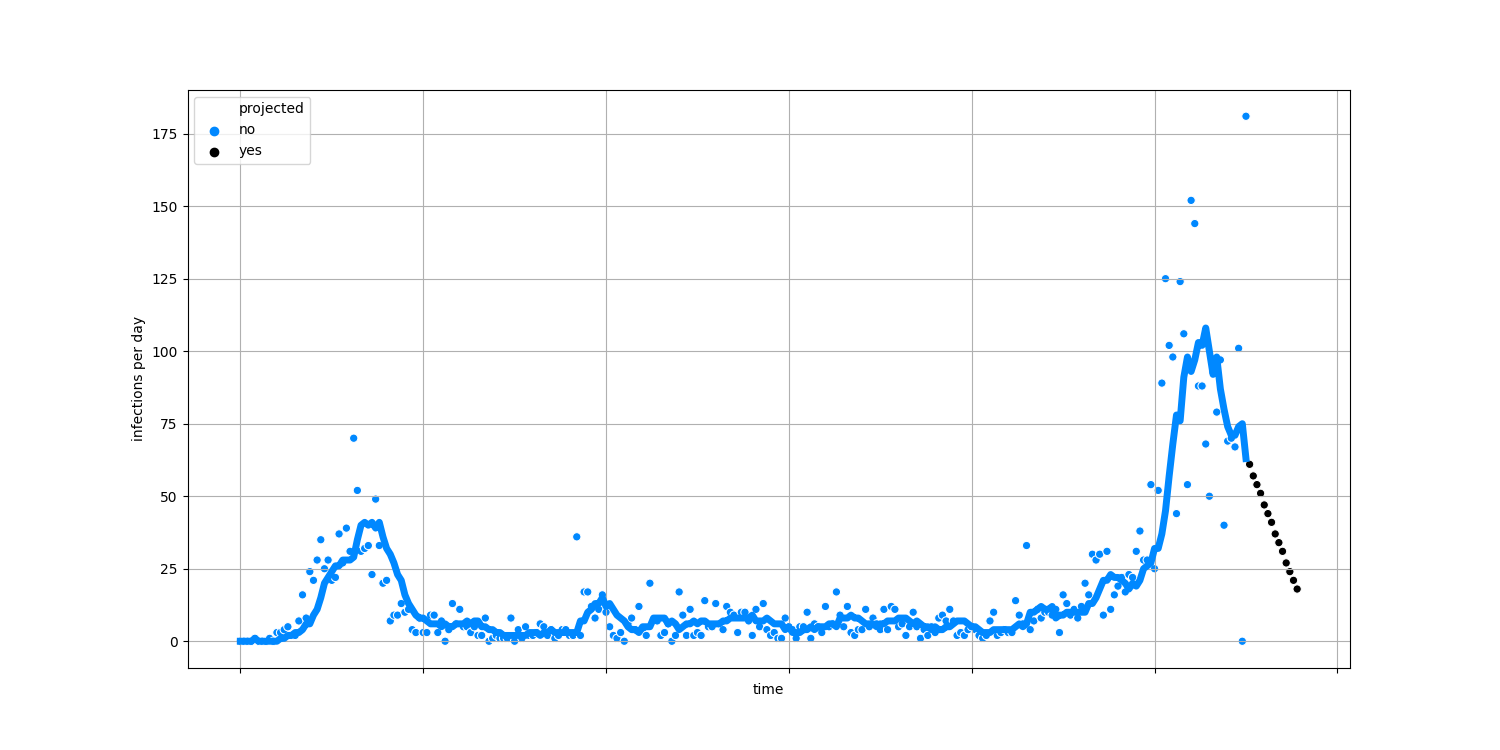
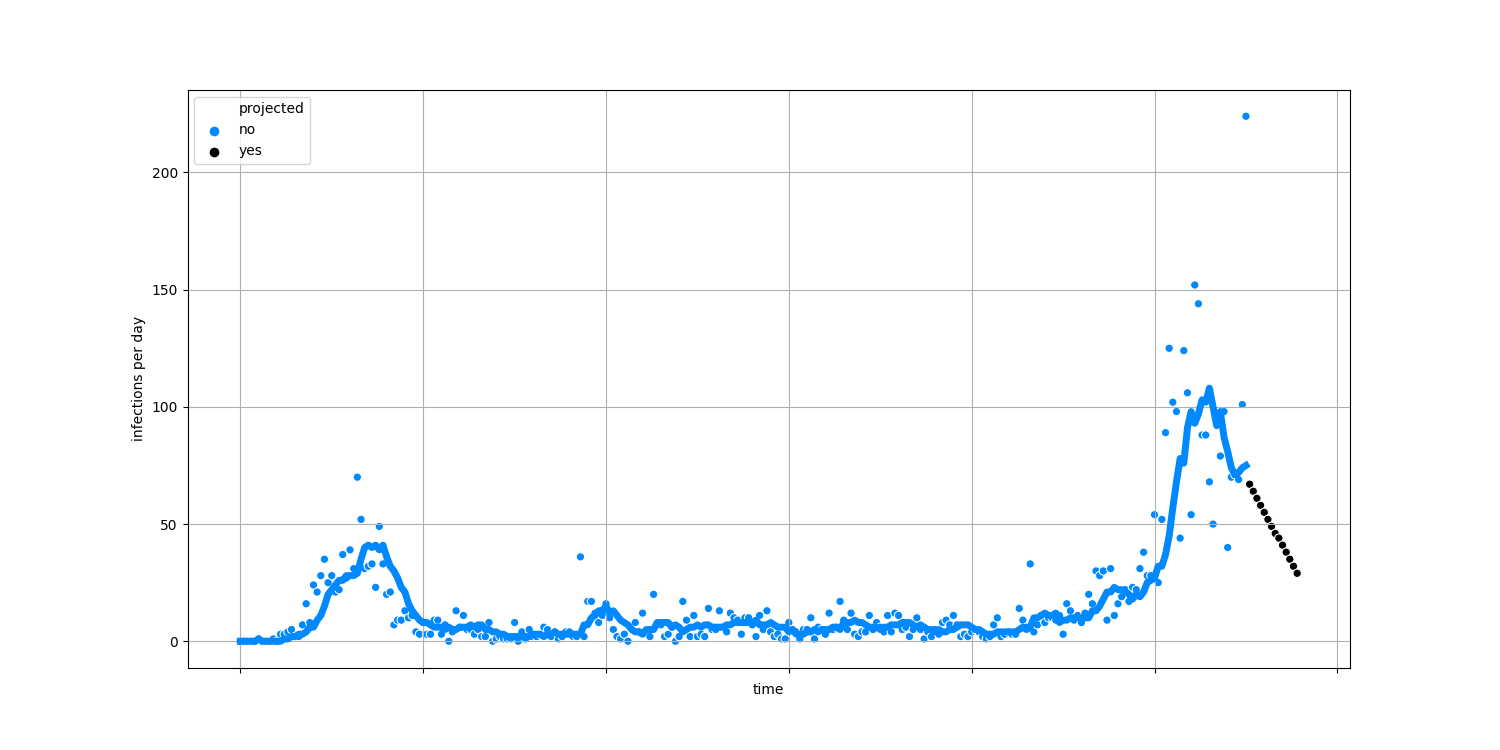
regular update

diff --git a/docs/table.html b/docs/table.html
@@ -100,7 +100,7 @@
     <script type="text/javascript">
       window.addEventListener('DOMContentLoaded', () => {
 
-        const data = [{'state': 'Alabama', 'deaths_per_million_per_day': '5', 'positive_per_million_per_day': '510'}, {'state': 'Alaska', 'deaths_per_million_per_day': '1', 'positive_per_million_per_day': '819'}, {'state': 'American Samoa', 'deaths_per_million_per_day': '0', 'positive_per_million_per_day': '0'}, {'state': 'Arizona', 'deaths_per_million_per_day': '4', 'positive_per_million_per_day': '591'}, {'state': 'Arkansas', 'deaths_per_million_per_day': '5', 'positive_per_million_per_day': '532'}, {'state': 'California', 'deaths_per_million_per_day': '2', 'positive_per_million_per_day': '368'}, {'state': 'Colorado', 'deaths_per_million_per_day': '5', 'positive_per_million_per_day': '758'}, {'state': 'Connecticut', 'deaths_per_million_per_day': '7', 'positive_per_million_per_day': '492'}, {'state': 'Delaware', 'deaths_per_million_per_day': '3', 'positive_per_million_per_day': '543'}, {'state': 'District of Columbia', 'deaths_per_million_per_day': '3', 'positive_per_million_per_day': '268'}, {'state': 'Florida', 'deaths_per_million_per_day': '4', 'positive_per_million_per_day': '365'}, {'state': 'Georgia', 'deaths_per_million_per_day': '4', 'positive_per_million_per_day': '242'}, {'state': 'Guam', 'deaths_per_million_per_day': '0', 'positive_per_million_per_day': '187'}, {'state': 'Hawaii', 'deaths_per_million_per_day': '1', 'positive_per_million_per_day': '59'}, {'state': 'Idaho', 'deaths_per_million_per_day': '7', 'positive_per_million_per_day': '684'}, {'state': 'Illinois', 'deaths_per_million_per_day': '11', 'positive_per_million_per_day': '712'}, {'state': 'Indiana', 'deaths_per_million_per_day': '10', 'positive_per_million_per_day': '816'}, {'state': 'Iowa', 'deaths_per_million_per_day': '8', 'positive_per_million_per_day': '515'}, {'state': 'Kansas', 'deaths_per_million_per_day': '9', 'positive_per_million_per_day': '700'}, {'state': 'Kentucky', 'deaths_per_million_per_day': '5', 'positive_per_million_per_day': '660'}, {'state': 'Louisiana', 'deaths_per_million_per_day': '5', 'positive_per_million_per_day': '482'}, {'state': 'Maine', 'deaths_per_million_per_day': '3', 'positive_per_million_per_day': '126'}, {'state': 'Maryland', 'deaths_per_million_per_day': '5', 'positive_per_million_per_day': '359'}, {'state': 'Massachusetts', 'deaths_per_million_per_day': '4', 'positive_per_million_per_day': '404'}, {'state': 'Michigan', 'deaths_per_million_per_day': '10', 'positive_per_million_per_day': '722'}, {'state': 'Minnesota', 'deaths_per_million_per_day': '8', 'positive_per_million_per_day': '967'}, {'state': 'Mississippi', 'deaths_per_million_per_day': '5', 'positive_per_million_per_day': '539'}, {'state': 'Missouri', 'deaths_per_million_per_day': '6', 'positive_per_million_per_day': '525'}, {'state': 'Montana', 'deaths_per_million_per_day': '8', 'positive_per_million_per_day': '772'}, {'state': 'Nebraska', 'deaths_per_million_per_day': '10', 'positive_per_million_per_day': '924'}, {'state': 'Nevada', 'deaths_per_million_per_day': '6', 'positive_per_million_per_day': '684'}, {'state': 'New Hampshire', 'deaths_per_million_per_day': '2', 'positive_per_million_per_day': '374'}, {'state': 'New Jersey', 'deaths_per_million_per_day': '4', 'positive_per_million_per_day': '455'}, {'state': 'New Mexico', 'deaths_per_million_per_day': '12', 'positive_per_million_per_day': '876'}, {'state': 'New York', 'deaths_per_million_per_day': '3', 'positive_per_million_per_day': '374'}, {'state': 'North Carolina', 'deaths_per_million_per_day': '3', 'positive_per_million_per_day': '342'}, {'state': 'North Dakota', 'deaths_per_million_per_day': '14', 'positive_per_million_per_day': '873'}, {'state': 'Northern Mariana Islands', 'deaths_per_million_per_day': '0', 'positive_per_million_per_day': '0'}, {'state': 'Ohio', 'deaths_per_million_per_day': '5', 'positive_per_million_per_day': '674'}, {'state': 'Oklahoma', 'deaths_per_million_per_day': '5', 'positive_per_million_per_day': '650'}, {'state': 'Oregon', 'deaths_per_million_per_day': '3', 'positive_per_million_per_day': '327'}, {'state': 'Pennsylvania', 'deaths_per_million_per_day': '7', 'positive_per_million_per_day': '531'}, {'state': 'Puerto Rico', 'deaths_per_million_per_day': '4', 'positive_per_million_per_day': '223'}, {'state': 'Rhode Island', 'deaths_per_million_per_day': '8', 'positive_per_million_per_day': '901'}, {'state': 'South Carolina', 'deaths_per_million_per_day': '3', 'positive_per_million_per_day': '276'}, {'state': 'South Dakota', 'deaths_per_million_per_day': '24', 'positive_per_million_per_day': '979'}, {'state': 'Tennessee', 'deaths_per_million_per_day': '5', 'positive_per_million_per_day': '759'}, {'state': 'Texas', 'deaths_per_million_per_day': '4', 'positive_per_million_per_day': '343'}, {'state': 'U.S. Virgin Islands', 'deaths_per_million_per_day': '0', 'positive_per_million_per_day': '57'}, {'state': 'Utah', 'deaths_per_million_per_day': '3', 'positive_per_million_per_day': '816'}, {'state': 'Vermont', 'deaths_per_million_per_day': '2', 'positive_per_million_per_day': '101'}, {'state': 'Virginia', 'deaths_per_million_per_day': '2', 'positive_per_million_per_day': '271'}, {'state': 'Washington', 'deaths_per_million_per_day': '2', 'positive_per_million_per_day': '304'}, {'state': 'West Virginia', 'deaths_per_million_per_day': '7', 'positive_per_million_per_day': '548'}, {'state': 'Wisconsin', 'deaths_per_million_per_day': '9', 'positive_per_million_per_day': '699'}, {'state': 'Wyoming', 'deaths_per_million_per_day': '3', 'positive_per_million_per_day': '924'}, {'state': 'United States', 'deaths_per_million_per_day': '5', 'positive_per_million_per_day': '486'}];
+        const data = [{'state': 'Alabama', 'deaths_per_million_per_day': '5', 'positive_per_million_per_day': '510'}, {'state': 'Alaska', 'deaths_per_million_per_day': '1', 'positive_per_million_per_day': '819'}, {'state': 'American Samoa', 'deaths_per_million_per_day': '0', 'positive_per_million_per_day': '0'}, {'state': 'Arizona', 'deaths_per_million_per_day': '4', 'positive_per_million_per_day': '591'}, {'state': 'Arkansas', 'deaths_per_million_per_day': '5', 'positive_per_million_per_day': '532'}, {'state': 'California', 'deaths_per_million_per_day': '2', 'positive_per_million_per_day': '368'}, {'state': 'Colorado', 'deaths_per_million_per_day': '5', 'positive_per_million_per_day': '758'}, {'state': 'Connecticut', 'deaths_per_million_per_day': '7', 'positive_per_million_per_day': '492'}, {'state': 'Delaware', 'deaths_per_million_per_day': '3', 'positive_per_million_per_day': '543'}, {'state': 'District of Columbia', 'deaths_per_million_per_day': '3', 'positive_per_million_per_day': '268'}, {'state': 'Florida', 'deaths_per_million_per_day': '4', 'positive_per_million_per_day': '365'}, {'state': 'Georgia', 'deaths_per_million_per_day': '4', 'positive_per_million_per_day': '242'}, {'state': 'Guam', 'deaths_per_million_per_day': '0', 'positive_per_million_per_day': '187'}, {'state': 'Hawaii', 'deaths_per_million_per_day': '1', 'positive_per_million_per_day': '59'}, {'state': 'Idaho', 'deaths_per_million_per_day': '7', 'positive_per_million_per_day': '684'}, {'state': 'Illinois', 'deaths_per_million_per_day': '11', 'positive_per_million_per_day': '712'}, {'state': 'Indiana', 'deaths_per_million_per_day': '10', 'positive_per_million_per_day': '816'}, {'state': 'Iowa', 'deaths_per_million_per_day': '8', 'positive_per_million_per_day': '515'}, {'state': 'Kansas', 'deaths_per_million_per_day': '9', 'positive_per_million_per_day': '700'}, {'state': 'Kentucky', 'deaths_per_million_per_day': '5', 'positive_per_million_per_day': '660'}, {'state': 'Louisiana', 'deaths_per_million_per_day': '5', 'positive_per_million_per_day': '482'}, {'state': 'Maine', 'deaths_per_million_per_day': '3', 'positive_per_million_per_day': '126'}, {'state': 'Maryland', 'deaths_per_million_per_day': '5', 'positive_per_million_per_day': '359'}, {'state': 'Massachusetts', 'deaths_per_million_per_day': '4', 'positive_per_million_per_day': '404'}, {'state': 'Michigan', 'deaths_per_million_per_day': '10', 'positive_per_million_per_day': '722'}, {'state': 'Minnesota', 'deaths_per_million_per_day': '8', 'positive_per_million_per_day': '967'}, {'state': 'Mississippi', 'deaths_per_million_per_day': '5', 'positive_per_million_per_day': '539'}, {'state': 'Missouri', 'deaths_per_million_per_day': '6', 'positive_per_million_per_day': '525'}, {'state': 'Montana', 'deaths_per_million_per_day': '8', 'positive_per_million_per_day': '772'}, {'state': 'Nebraska', 'deaths_per_million_per_day': '10', 'positive_per_million_per_day': '924'}, {'state': 'Nevada', 'deaths_per_million_per_day': '6', 'positive_per_million_per_day': '684'}, {'state': 'New Hampshire', 'deaths_per_million_per_day': '2', 'positive_per_million_per_day': '374'}, {'state': 'New Jersey', 'deaths_per_million_per_day': '4', 'positive_per_million_per_day': '455'}, {'state': 'New Mexico', 'deaths_per_million_per_day': '12', 'positive_per_million_per_day': '876'}, {'state': 'New York', 'deaths_per_million_per_day': '3', 'positive_per_million_per_day': '374'}, {'state': 'North Carolina', 'deaths_per_million_per_day': '3', 'positive_per_million_per_day': '342'}, {'state': 'North Dakota', 'deaths_per_million_per_day': '14', 'positive_per_million_per_day': '873'}, {'state': 'Northern Mariana Islands', 'deaths_per_million_per_day': '0', 'positive_per_million_per_day': '0'}, {'state': 'Ohio', 'deaths_per_million_per_day': '5', 'positive_per_million_per_day': '674'}, {'state': 'Oklahoma', 'deaths_per_million_per_day': '5', 'positive_per_million_per_day': '650'}, {'state': 'Oregon', 'deaths_per_million_per_day': '3', 'positive_per_million_per_day': '327'}, {'state': 'Pennsylvania', 'deaths_per_million_per_day': '7', 'positive_per_million_per_day': '531'}, {'state': 'Puerto Rico', 'deaths_per_million_per_day': '4', 'positive_per_million_per_day': '223'}, {'state': 'Rhode Island', 'deaths_per_million_per_day': '8', 'positive_per_million_per_day': '901'}, {'state': 'South Carolina', 'deaths_per_million_per_day': '3', 'positive_per_million_per_day': '276'}, {'state': 'South Dakota', 'deaths_per_million_per_day': '24', 'positive_per_million_per_day': '979'}, {'state': 'Tennessee', 'deaths_per_million_per_day': '5', 'positive_per_million_per_day': '759'}, {'state': 'Texas', 'deaths_per_million_per_day': '4', 'positive_per_million_per_day': '343'}, {'state': 'U.S. Virgin Islands', 'deaths_per_million_per_day': '0', 'positive_per_million_per_day': '57'}, {'state': 'Utah', 'deaths_per_million_per_day': '3', 'positive_per_million_per_day': '816'}, {'state': 'Vermont', 'deaths_per_million_per_day': '2', 'positive_per_million_per_day': '120'}, {'state': 'Virginia', 'deaths_per_million_per_day': '2', 'positive_per_million_per_day': '271'}, {'state': 'Washington', 'deaths_per_million_per_day': '2', 'positive_per_million_per_day': '304'}, {'state': 'West Virginia', 'deaths_per_million_per_day': '7', 'positive_per_million_per_day': '548'}, {'state': 'Wisconsin', 'deaths_per_million_per_day': '9', 'positive_per_million_per_day': '699'}, {'state': 'Wyoming', 'deaths_per_million_per_day': '3', 'positive_per_million_per_day': '924'}, {'state': 'United States', 'deaths_per_million_per_day': '5', 'positive_per_million_per_day': '486'}];
 
         const render = () => {
           const tbody = document.querySelector('tbody');

diff --git a/docs/VT.html b/docs/VT.html
@@ -74,11 +74,11 @@
         <div class="grid-col-9">
           <h1 class="font-body-2xl">
             Vermont has had about 75 COVID-19 deaths and
-            4,642 confirmed cases.
+            4,690 confirmed cases.
             <small>
-              That's about <strong>7,439 out of every
+              That's about <strong>7,516 out of every
               1,000,000</strong> people who we know are or have
-              been infected. About <strong>1.62%</strong>
+              been infected. About <strong>1.6%</strong>
               of people who have tested positive have died.
             </small>
           </h1>
@@ -86,13 +86,13 @@
           <p class="font-body-md">
             Today there were
              <strong>
-            181</strong> COVID-19
+            224</strong> COVID-19
             cases identified.
-            There are about <strong>63</strong> new
+            There are about <strong>75</strong> new
             cases identified every day (7-day average). At the current rate, the
             average number of new cases per day will be about
-            <strong>41</strong> in 7 days and
-            about <strong>18</strong> in 14
+            <strong>49</strong> in 7 days and
+            about <strong>29</strong> in 14
             days. This chart shows the number of new cases each day since the
             first case was identified. The dots are the total number of new
             cases for each day and the line is the average of the previous seven

diff --git a/docs/index.html b/docs/index.html
@@ -74,9 +74,9 @@
         <div class="grid-col-9">
           <h1 class="font-body-2xl">
             The United States has had about 267,228 COVID-19 deaths and
-            13,921,312 confirmed cases.
+            13,921,360 confirmed cases.
             <small>
-              That's about <strong>41,947 out of every
+              That's about <strong>41,948 out of every
               1,000,000</strong> people who we know are or have
               been infected. About <strong>1.92%</strong>
               of people who have tested positive have died.
@@ -86,9 +86,9 @@
           <p class="font-body-md">
             Today there were
              <strong>
-            210,161</strong> COVID-19
+            210,204</strong> COVID-19
             cases identified.
-            There are about <strong>161,411</strong> new
+            There are about <strong>161,423</strong> new
             cases identified every day (7-day average). At the current rate, the
             average number of new cases per day will be about
             <strong>156,000</strong> in 7 days and
